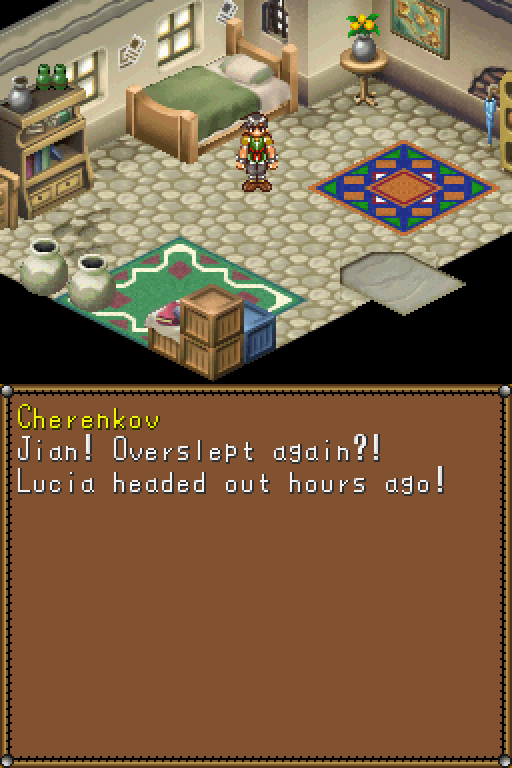
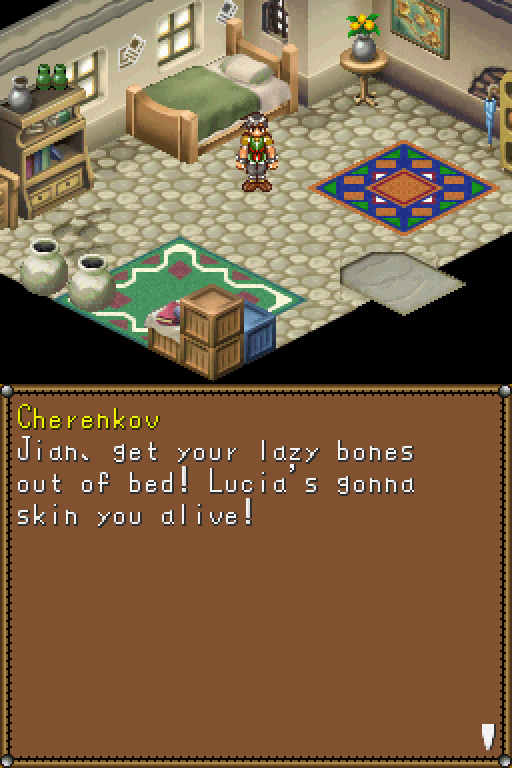
Opening: Jeff's revised wake-up and run lines; new opening screenshot

Changed region(s): [[0.1562, 0.5625, 0.875, 0.6875], [0.0312, 0.5938, 0.1562, 0.6875], [0.9375, 0.9375, 0.9688, 1.0]]

diff --git a/src/dsde/feat_opening.py b/src/dsde/feat_opening.py
@@ -83,23 +83,31 @@ FADE_DEFAULT_FRAMES = -1  # 30 frames
 PAGE_BREAK = b"\xfe\xfd\xfd"  # end of page, then the layout the game's own messages use
 TEXT_END = b"\xff"
 
-# Dialogue (decided with Jeff 2026-10-06, docs/playtest-feedback.md item 2). Each tuple is the pages of
-# one message. Jian's run lines are his inner voice: every line in the alternate color, no name tag, as
-# the vanilla monologue. They come from his Japanese self-introduction minus what the prologue says.
-WAKE_CALL = ("<Cherenkov>\nJian! Overslept again?!\nLucia headed out hours ago!",)
-WAKE_REPLY = ("<Jian>\nWha...? She left already?!",)
-WAKE_PUSH = (
-    "<Cherenkov>\nKeep this up and I'll rent\nthe room to someone\nrespectable!",
+# Dialogue (decided with Jeff 2026-10-06, revised 2026-10-07, docs/playtest-feedback.md item 2). Each
+# tuple is the pages of one message. Jian's run lines are his inner voice: every line in the alternate
+# color, no name tag, as the vanilla monologue.
+WAKE_CALL = (
+    "<Cherenkov>\nJian, get your lazy bones\nout of bed! Lucia's gonna\nskin you alive!",
 )
+WAKE_REPLY = ("<Jian>\nWha...? She left already?!",)
+WAKE_PUSH = ("<Cherenkov>\nKeep this up and I'll rent\nyour room to someone useful!",)
 WAKE_UP = ("<Jian>\nI'm up! I'm up!",)
 RUN_ROOM = (
     (
         "<I'm Jian. I'm a courier for>\n<Gad's Express. Lucia and I>\n"
-        "<haven't been partners long.>"
+        "<haven't been partners long,>\n<but she's great.>"
+    ),
+    "<Except for her temper.>",
+)
+RUN_HALL = (
+    "<The job gets risky sometimes,>\n<but honestly, that's why I>\n<love it.>",
+)
+RUN_LOBBY = (
+    (
+        "<Well, that and getting to>\n<work with Lucia every day.>\n"
+        "<If only we started later,>\n<I'd have it made!>"
     ),
 )
-RUN_HALL = ("<It gets risky sometimes.>\n<Honestly? That's what I>\n<love about it.>",)
-RUN_LOBBY = ("<Lucia? She's great.>\n<Just don't tell her>\n<I said so.>",)
 CHERENKOV_LOBBY = (
     (
         "<Cherenkov>\nJian, what are you doing?!\nGet to {Fountain Square}!\n"

diff --git a/docs/playtest-feedback.md b/docs/playtest-feedback.md
@@ -186,3 +186,20 @@ Jeff approved Jian's run lines (inner voice, no name tag, one box per map):
 2026-10-06: "'humans' and 'beastmen' need to have the ' removed still"): no quotes around Beastmen,
 Humans, Jian Campbell, courier and Lucia Collins; no "who loves acrobatics"; no "pair of them love
 excitement" paragraph. Checked in the emulator from a New Game (`text_intro`, `opening_run`).
+
+## 2. Opening lines revised (2026-10-07)
+
+Jeff rewrote Cherenkov's wake-up and Jian's run lines:
+
+> Cherenkov: Jian, get your lazy bones / out of bed! Lucia's gonna / skin you alive!
+> Jian: Wha...? She left already?!
+> Cherenkov: Keep this up and I'll rent / your room to someone useful!
+> Jian: I'm up! I'm up!
+>
+> Room: I'm Jian. I'm a courier for / Gad's Express. Lucia and I / haven't been partners long, / but she's great.
+> (page) Except for her temper.
+> Hall: The job gets risky sometimes, / but honestly, that's why I / love it.
+> Lobby: Well, that and getting to / work with Lucia every day. / If only we started later, / I'd have it made!
+
+Checked from a New Game in the emulator (`opening_run`): every box fits, the run reaches the street and
+hands back control. The room line's second page shows below the first after A, as the game's own pages do.

diff --git a/README.md b/README.md
@@ -75,7 +75,7 @@ the state of every change, with how it was tested, is in [docs/status.md](docs/s
 ### Story and text
 
 - **A new opening.** The prologue no longer repeats what the game shows you next. Instead of Jian
-  introducing himself to an empty room, the innkeeper shouts up the stairs that he has overslept again, and
+  introducing himself to an empty room, the innkeeper shouts up the stairs to get him out of bed, and
   Jian runs out of the inn, his thoughts introducing him on the way.
 - **"Her champion the Dragonmaster"** in the opening narration, instead of "her servant".
 
